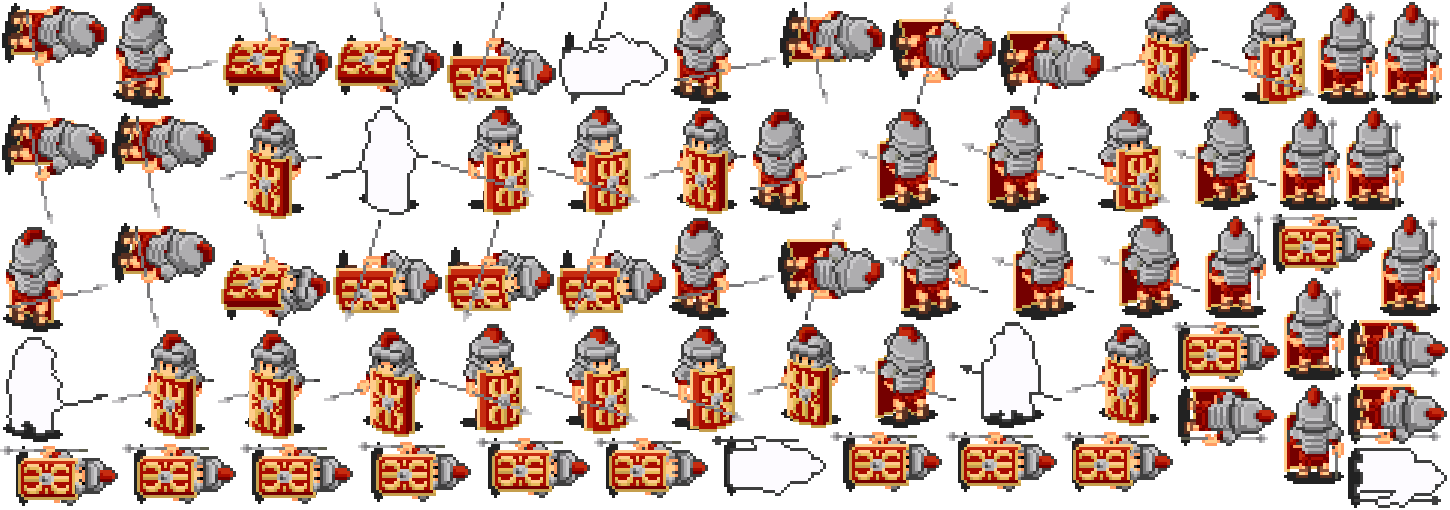
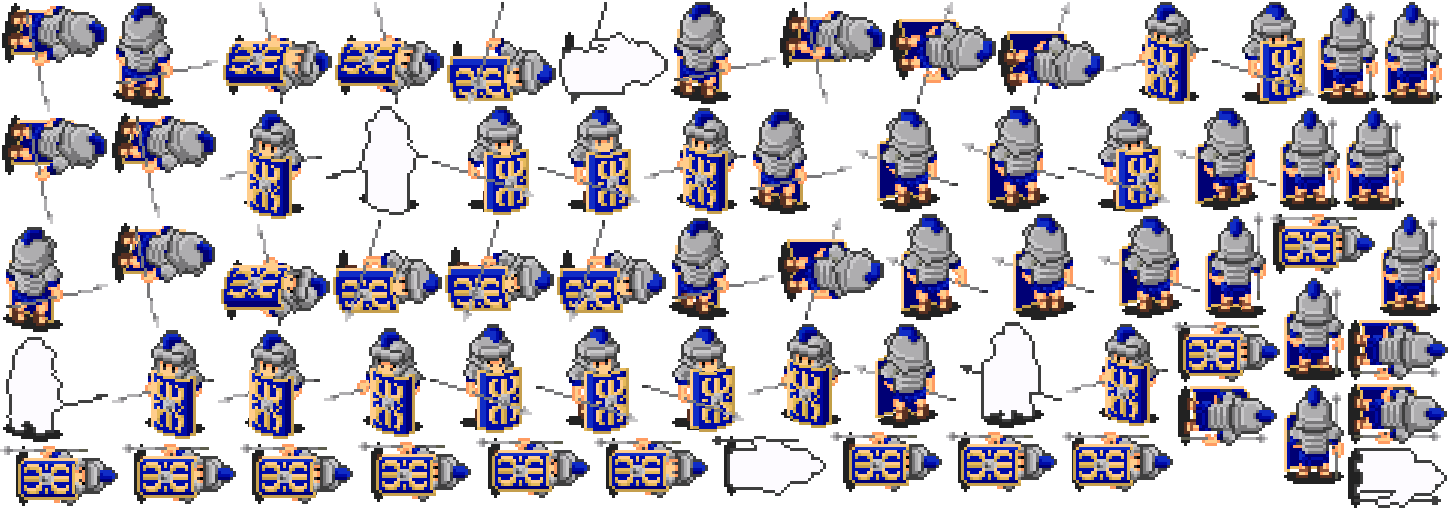
블루 맞춤

diff --git a/Cocos_practice/Classes/GameSceneManager.cpp b/Cocos_practice/Classes/GameSceneManager.cpp
@@ -453,7 +453,7 @@ void GameSceneManager::TrimZorderAndRefreshAP()
 	for (auto iter : TileMap::getInstance()->getChildren())
 		if (iter->getName() == "character")
 		{
-			iter->setZOrder(-100 * iter->getPositionY() + 12000);
+			iter->setZOrder(-100 * iter->getPositionY() + 11000);
 			Character* tCharacter = static_cast<Character*>(iter);
 			tCharacter->setAttackPowerBallNameFromNumber(tCharacter->getAttackPowerToDisplay());
 		}
